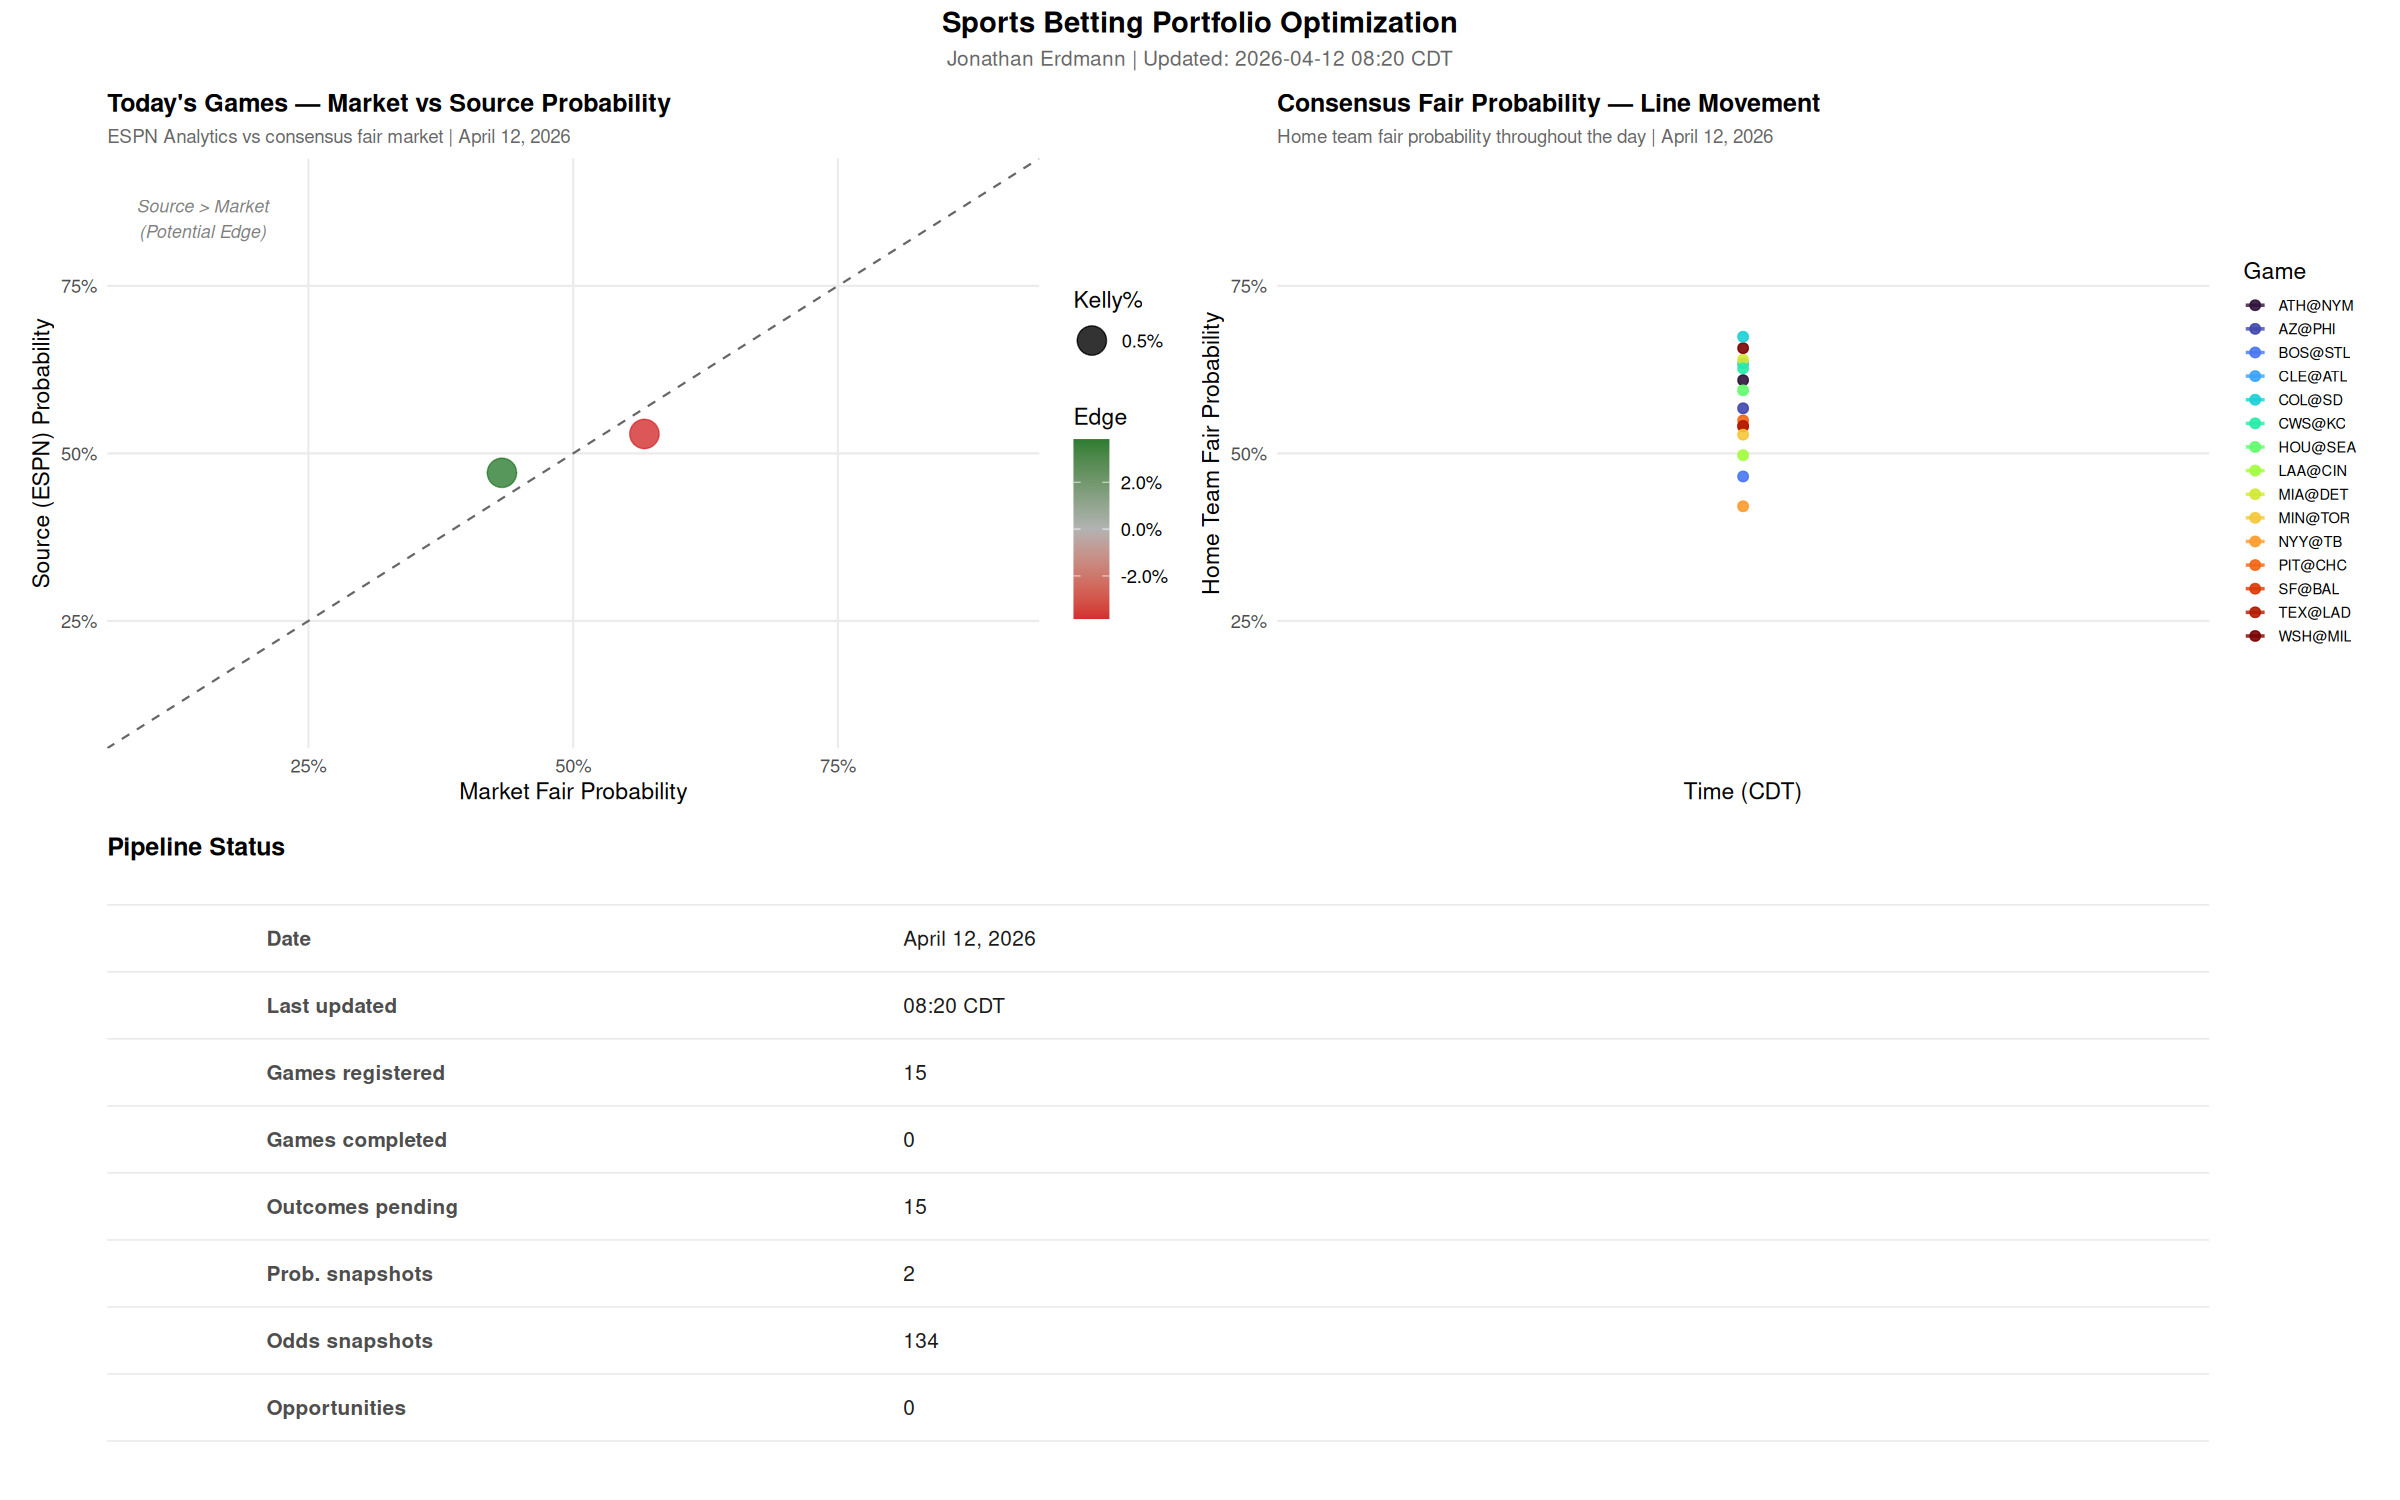
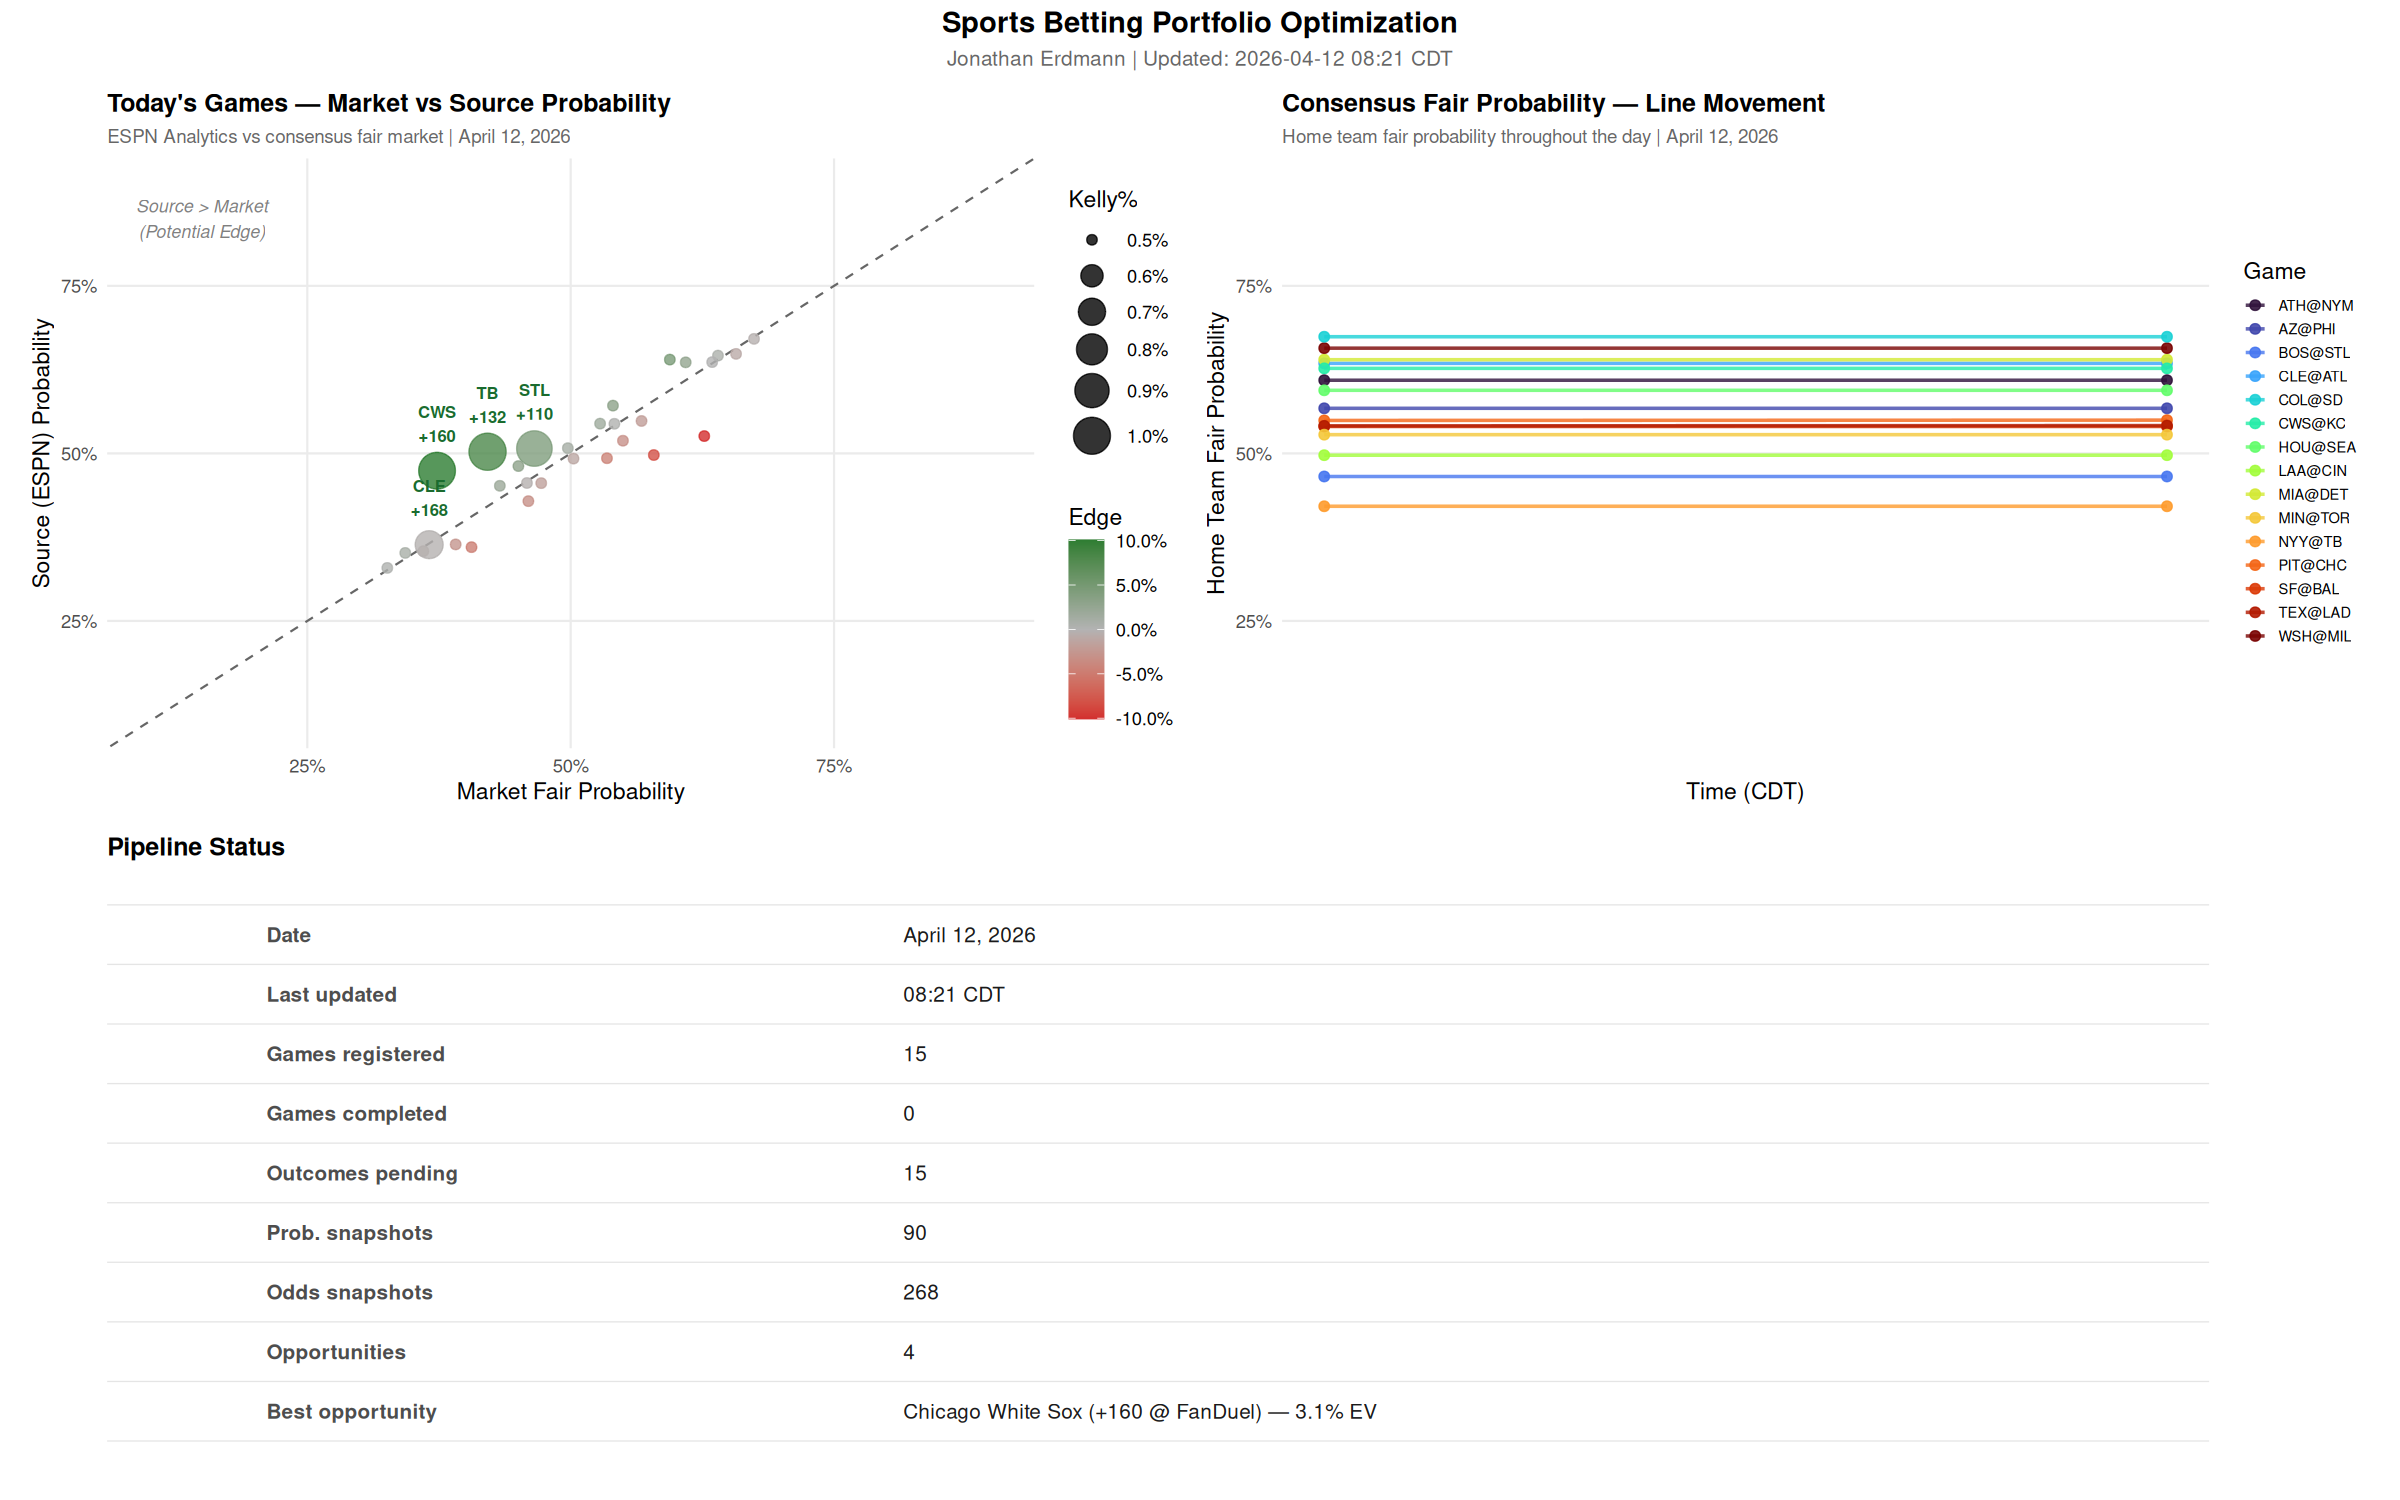
Update dashboard: 2026-04-12 08:21

diff --git a/projects/portfolio-optimization/dashboard.md b/projects/portfolio-optimization/dashboard.md
@@ -6,14 +6,18 @@ permalink: /projects/portfolio-optimization/dashboard/
 
 ## Daily Pipeline Dashboard
 
-**Last updated:** April 12, 2026 08:20 CDT
+**Last updated:** April 12, 2026 08:21 CDT
 
 ---
 
 ### Today's +EV Opportunities
 
-
-*No positive EV opportunities identified today.*
+| Team | ML | Market% | Posterior% | EV% | Kelly% | Bet by | Book |
+|---|---|---|---|---|---|---|---|
+| Chicago White Sox | +160 | 37.3% | 39.7% | 3.1% | 0.49% | 11:10 CDT | FanDuel |
+| Tampa Bay Rays | +132 | 42.1% | 44.3% | 2.7% | 0.50% | 10:40 CDT | LowVig.ag |
+| St. Louis Cardinals | +110 | 46.6% | 48.5% | 2.0% | 0.44% | 11:15 CDT | BetOnline.ag |
+| Cleveland Guardians | +168 | 36.6% | 37.9% | 1.5% | 0.22% | 16:20 CDT | BetOnline.ag |
 
 ---
 
